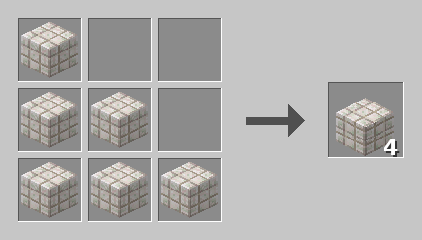
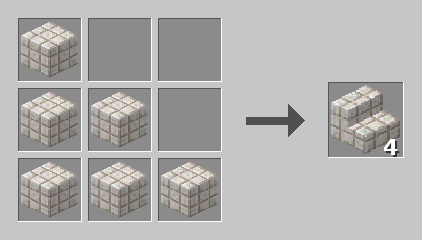
fix: render recipe stairs as a true iso stair (front tread + riser visible)
The previous two-stacked-slabs approach just produced a ~2/3-height cube (the
full-footprint top slab hid the lower tread). Replaced iso_stair with proper
per-face geometry: an upper step occupying the BACK half-depth at full height +
a lower step on the FRONT half at half height, so the front tread + riser show.
Reuses the iso_cube projection/brightness; draws only the visible faces (top,
i=0 left, j=1 front) back-to-front with correct per-face texture sub-rects.
Re-rendered all recipe images. Docs/tooling only.

Changed region(s): [[0.7701, 0.35, 0.955, 0.6417]]

diff --git a/scripts/gen-recipe-images.py b/scripts/gen-recipe-images.py
@@ -141,16 +141,29 @@ def iso_cube(tex, W=30, Vh=30, frac=1.0):
     return cv
 
 def iso_stair(tex, W=30, Vh=30):
-    """Two-tier iso block reading as stairs: a full bottom slab + a second slab
-    raised half a block at the back, so the front shows the stepped profile."""
-    vh = Vh // 2
-    base = iso_cube(tex, W, Vh, frac=0.5)
-    step = iso_cube(tex, W, Vh, frac=0.5)
-    cw, ch = base.size[0], base.size[1] + vh
-    out = Image.new("RGBA", (cw, ch), (0, 0, 0, 0))
-    out.alpha_composite(base, (0, vh))   # lower step at the bottom
-    out.alpha_composite(step, (0, 0))    # upper step raised by half a block
-    return out
+    """True iso stair: an upper step occupying the BACK half-depth (full height)
+    plus a lower step on the FRONT half (half height), so the front tread + riser
+    are visible. Steps along the j axis; same projection/brightness as iso_cube.
+    Visible faces only (top + i=0 left + j=1 front), drawn back-to-front."""
+    tex = tex.convert("RGBA")
+    if tex.size != (16, 16): tex = tex.resize((16, 16), Image.NEAREST)
+    def S(i, j, y):
+        return (int(i*W + j*W), int((W//2) - i*(W//2) + j*(W//2) + y*Vh))
+    cw, ch = 2*W+1, W+Vh+1
+    cv = Image.new("RGBA", (cw, ch), (0, 0, 0, 0))
+    def quad(O, U, V, src, br):
+        sub = tex.crop(src)
+        f = _face(sub, (cw, ch), O, (U[0]-O[0], U[1]-O[1]), (V[0]-O[0], V[1]-O[1]), br)
+        if f: cv.alpha_composite(f)
+    # upper step (back: j 0..0.5, full height) — drawn first
+    quad(S(0,0,0),     S(1,0,0),     S(0,0.5,0),   (0,0,16,8),  1.00)  # upper top
+    quad(S(0,0,0),     S(0,0.5,0),   S(0,0,1),     (0,0,8,16),  0.80)  # upper left (i=0)
+    quad(S(0,0.5,0),   S(1,0.5,0),   S(0,0.5,0.5), (0,0,16,8),  0.62)  # riser (j=0.5, y 0..0.5)
+    # lower step (front: j 0.5..1, y 0.5..1) — drawn over the upper step
+    quad(S(0,0.5,0.5), S(1,0.5,0.5), S(0,1,0.5),   (0,8,16,16), 1.00)  # lower tread
+    quad(S(0,0.5,0.5), S(0,1,0.5),   S(0,0.5,1),   (8,8,16,16), 0.80)  # lower left (i=0)
+    quad(S(0,1,0.5),   S(1,1,0.5),   S(0,1,1),     (0,8,16,16), 0.62)  # lower front (j=1)
+    return cv
 
 def cell_display(tex, idv, size):
     """Rendered icon ready to paste in a slot of `size`px: iso cube for blocks
